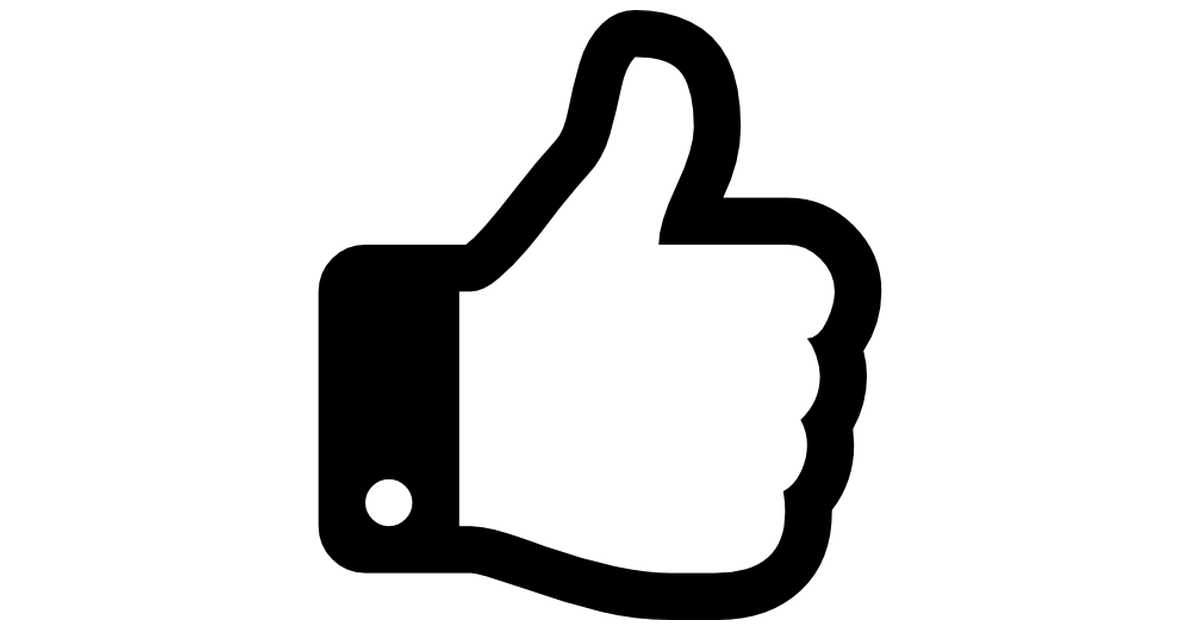
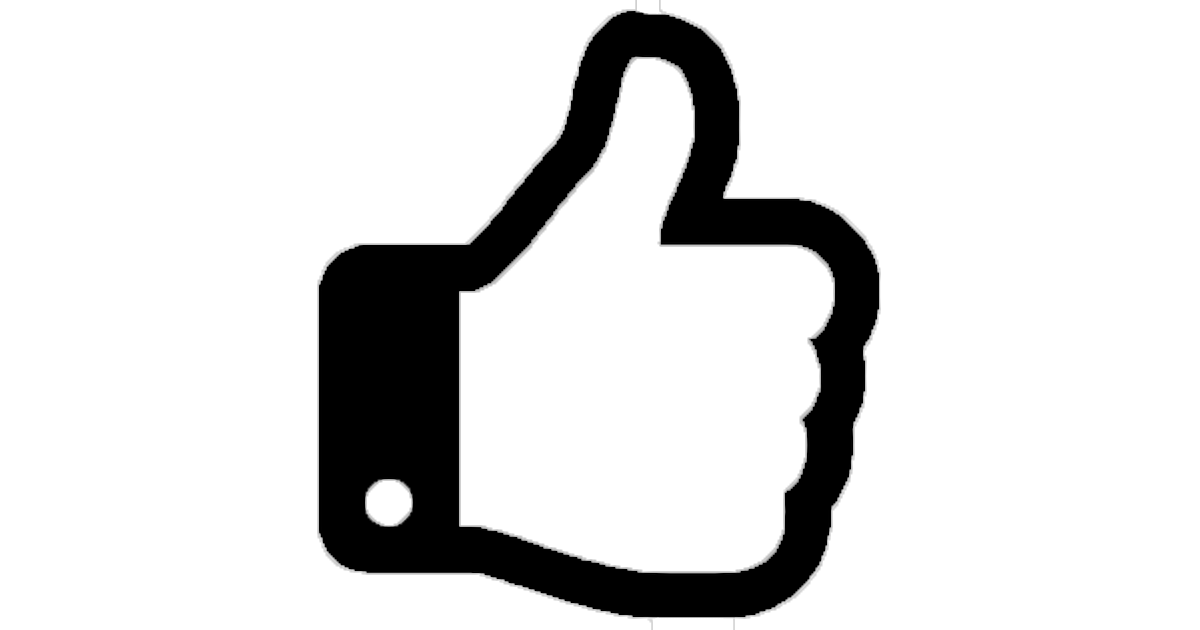
style changes

diff --git a/src/Play.js b/src/Play.js
@@ -1,15 +1,19 @@
 import React, { useState } from 'react'
-import like from './like.png'
+import like from './likeshadow.png'
 import { buttonStyle, p4 } from './styles.js'
 
 export default function Play (props) {
-  const { player, setTimeStamp, setCommentForm, addLike } = props
+  const { player, setTimeStamp, setCommentForm, addLike, commentArray } = props
   const [ playing, setPlaying ] = useState(true)
   const buttonText = playing ? 'Pause' : 'Play'
 
   function commentButton() {
     getTimestamp()
     setCommentForm(true)
+  }
+  function saveComment() {
+// save comment array to a new state variable - log that new state variable to see if how it's structured
+// have a roll past comments button that rolls thru that data as the video plays, showing comments in sync
   }
 
   const playPause = () => {
@@ -37,6 +41,7 @@ export default function Play (props) {
         <button style={buttonStyle} onClick={playPause}>{buttonText}</button>
         <button style={buttonStyle} onClick={() => addLike()}><img src={like} width="20px" alt="like"/>Like!</button>
         <button style={buttonStyle} onClick={commentButton}>Leave a Comment</button>
+        <button style={buttonStyle} onClick={saveComment}>Save Comments</button>
       </div>
     </>
 

diff --git a/src/styles.js b/src/styles.js
@@ -27,26 +27,48 @@ export const p3 = {
 export const p4 = {
   display: "flex",
   flexDirection: "row",
+  marginBottom: "5px",
   justifyContent: "space-evenly",
   fontFamily: "'Roboto Slab', serif",
 }
 
 export const buttonStyle = {
   fontFamily: "'Roboto Slab', serif",
-  borderRadius: "6px"
+  marginLeft: "2px",
+  backgroundColor: "#98b2e6",
+  borderRadius: "6px",
+  textShadow: "0.75px 0.75px #142952",
+  border: "none",
+  boxShadow: "1px 1px #142952",
+  color: "white",
+  fontSize: "12px",
+  textAlign: "center",
+  padding: "2px 10px",
+  cursor: "pointer",
 }
 export const commentStyle = {
   fontFamily: "'Montserrat', sans-serif",
-
+  marginTop: "15px",
+  color: "#142952",
+  fontSize: "15px",
 }
 export const inputStyle = {
+  padding: "2px 10px",
+  color: "#142952",
   borderRadius: "6px",
+  borderColor: "#98b2e6",
   fontFamily: "'Roboto Slab', serif"
 }
 export const panelStyle = {
   marginLeft: "10px",
+  color: "#142952",
   marginTop: "1em"
 }
 export const videoStyle = {
   marginTop: "20px"
+}
+export const titleStyle = {
+  color: "#98b2e6",
+  fontSize: "1.17em",
+  textShadow: "1px 1px #142952",
 }

diff --git a/src/Panel.js b/src/Panel.js
@@ -1,18 +1,18 @@
 import React from 'react'
-import { commentStyle, panelStyle } from './styles.js'
+import { commentStyle, panelStyle, titleStyle } from './styles.js'
 
 export default function Panel({ likeValue, commentArray }) {
 
   const commentsList = commentArray ? <div>
-    {commentArray.map((item,i) => <p key={i}>{commentArray[i]}</p>)}
+    {commentArray.map((item,i) => <p style={{marginTop: "3px"}} key={i}>{commentArray[i]}</p>)}
   </div> : <p>No comments yet!</p>
 
   return (
     <>
-    <div style = {panelStyle}>
-      <span style={{fontSize: "1.17em", }}><bold>Likes:</bold> {likeValue}</span>
-      <h3>Comments: </h3>
-      <p style={commentStyle}>{commentsList}</p>
+    <div style={panelStyle}>
+      <span style={titleStyle}>Likes: </span><span style={{fontFamily: "'Montserrat', sans-serif"}}>{likeValue}</span>
+      <br /><span style={titleStyle}>Comments: </span>
+      <br /><span style={commentStyle}>{commentsList}</span>
     </div>
     </>
     )

diff --git a/src/Video.js b/src/Video.js
@@ -3,7 +3,7 @@ import Player from '@vimeo/player'
 import Play from './Play.js'
 import { videoStyle } from './styles.js'
 
-export default function Video({ onPause, idValue, setTimeStamp, setCommentForm, addLike }) {
+export default function Video({ onPause, idValue, setTimeStamp, setCommentForm, addLike, commentArray }) {
     const container = useRef(document.createElement('div'))
     const player = useRef()
     const [ready, setReady] = useState(false)
@@ -36,7 +36,7 @@ export default function Video({ onPause, idValue, setTimeStamp, setCommentForm, 
           {ready &&
             <>
             <div style={videoStyle} ref={videoRef}></div>
-            <Play player={player} setTimeStamp={setTimeStamp} setCommentForm={setCommentForm} addLike={addLike}/>
+            <Play player={player} setTimeStamp={setTimeStamp} setCommentForm={setCommentForm} addLike={addLike} commentArray={commentArray}/>
             </>
           }
       </div>

diff --git a/src/Comment.js b/src/Comment.js
@@ -1,19 +1,12 @@
-import React, { useState } from 'react'
+import React from 'react'
 import { buttonStyle, inputStyle} from './styles.js'
-
-// add a log of the timestamp, and a showcommentform state to reset the form
 
 export default function Comment (props) {
   const { timeStamp, onCommentSubmit, commentValue, setComment } = props
   return (
     <>
-    <div>
-      <form>
-        <label>
-          Leave a comment:
-        </label>
-        <input style={inputStyle} type="text" value={commentValue}  onChange={e => setComment(e.target.value)}></input>
-      </form>
+    <div style={{color: "#142952"}}>
+      Leave a comment: <input style={inputStyle} type="text" value={commentValue}  onChange={e => setComment(e.target.value)}></input>
       <button style={buttonStyle} onClick={() => onCommentSubmit(timeStamp)}>Submit!</button>
     </div>
     </>

diff --git a/src/Search.js b/src/Search.js
@@ -1,13 +1,12 @@
 import React, { useState } from 'react'
-import { buttonStyle, inputStyle } from './styles.js'
-
+import { buttonStyle, inputStyle, titleStyle } from './styles.js'
 
 export default function Search({ newVideo }) {
   const [searchValue, setSearch] = useState(null)
 
   return (
     <div>
-        <label>Search: </label>
+        <label style={titleStyle}>Search: </label>
         <input style={inputStyle} type="text" onChange={e => setSearch(e.target.value)}></input>
         <button style={buttonStyle} onClick={() => newVideo(searchValue)}>Submit!</button>
     </div>

diff --git a/src/App.js b/src/App.js
@@ -36,7 +36,7 @@ export default function App() {
       </div>
       <div style={r2}>
         <div style={p2}>
-        <Video idValue={idValue} setTimeStamp={setTimeStamp} setCommentForm={setCommentForm} addLike={addLike}/>
+        <Video idValue={idValue} setTimeStamp={setTimeStamp} setCommentForm={setCommentForm} addLike={addLike} commentArray={commentArray}/>
           <div style={p4}>
             {(timeStamp && showCommentForm) &&
               <Comment timeStamp={timeStamp} onCommentSubmit={onCommentSubmit} commentValue={commentValue} setComment={setComment}/>
